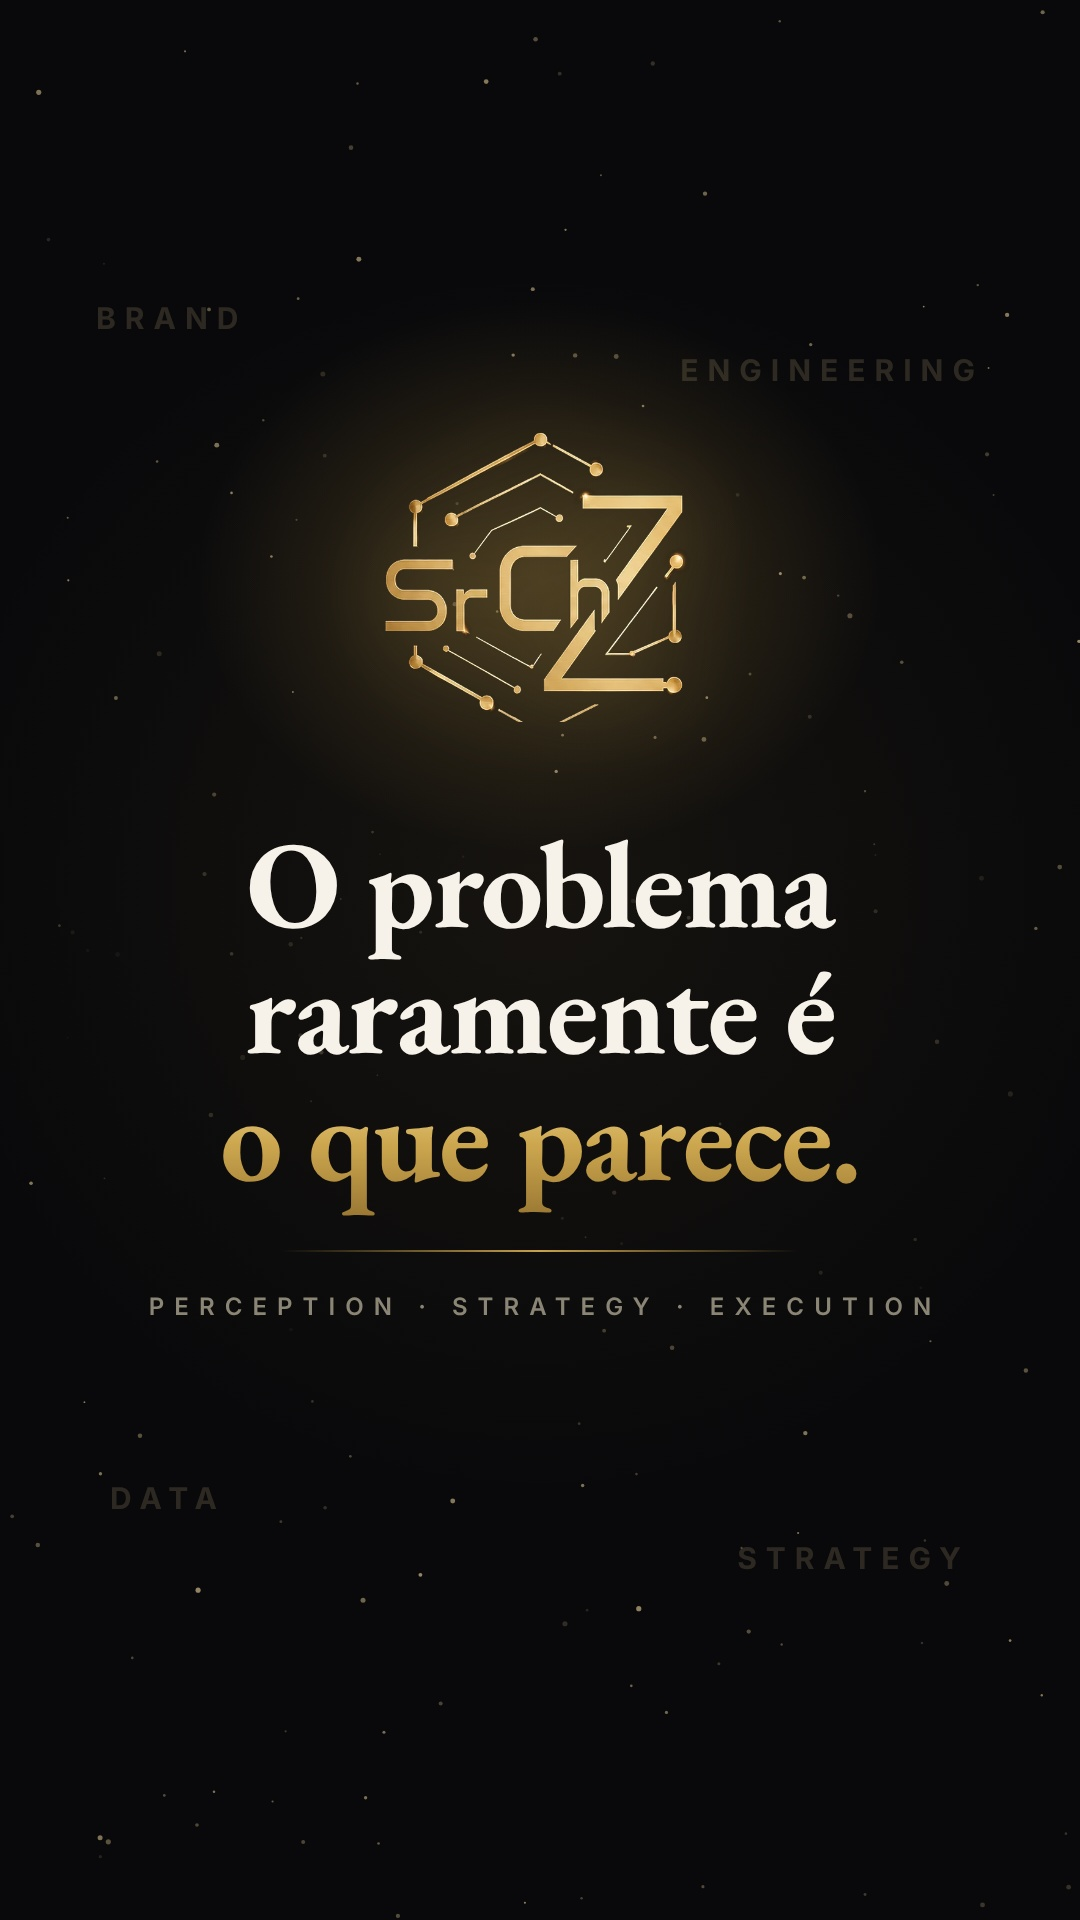
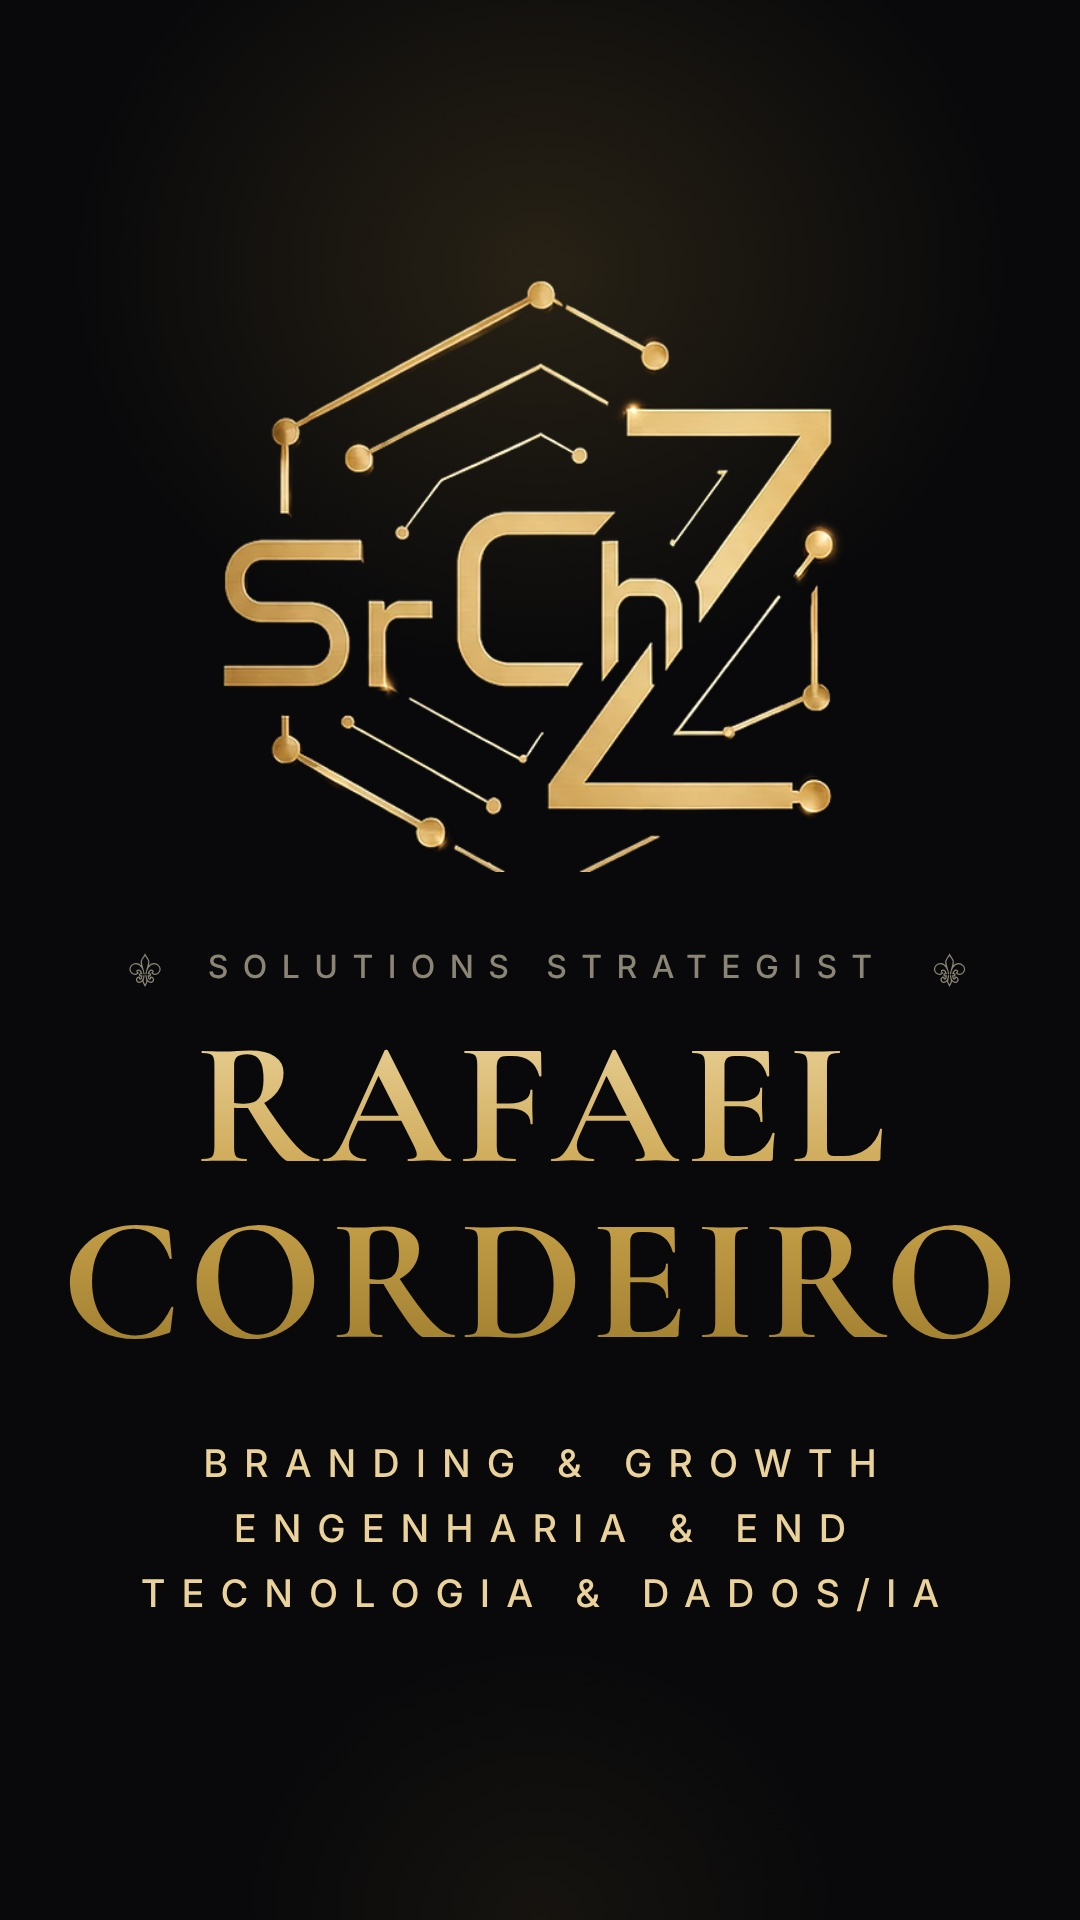
Capa do Reels no desenho do topo do site, sem foco em Growth
Pedido do usuário, com o topo da /growth como referência: o logo, o
rótulo entre flores de lis, o nome em dourado e o cargo em caixa-alta
espaçada. Fontes, cores e espaçamentos saem do CSS da /growth —
Cormorant Garamond no nome, Inter no resto, o mesmo gradiente dourado.
O texto sai da home, que fala das três práticas: "Solutions Strategist"
no rótulo, e no cargo as três práticas, uma por linha. Com o argumento
"solucoes" o cargo vira "Estrategista de Soluções", como na home, o que
repete o rótulo em português.

Duas armadilhas resolvidas:
- a srchz-mark.png tem 720 px, mas o desenho ocupa 496; o resto é margem
  transparente. Dimensionada pela largura do arquivo, a marca saía um
  terço menor. A 900 px de imagem o desenho fica com 620, dois terços do
  nome, que é a proporção do site.
- a Inter não tem o ⚜. A escolha automática aqui seria a DejaVu, que
  desenha a flor cheia; no celular ela sai vazada e fina, como a da
  FreeSerif, que é a que a capa pede.

O bloco fica centrado nos 1440 px do meio, que o grid do perfil recorta
(3:4). A página falha na hora com uma variante que não existe, em vez de
o script esperar o timeout.

Claude-Session: https://claude.ai/code/session_01MSpLeeFCgv86181idZjs4t

diff --git a/tools/video/film-cover.html b/tools/video/film-cover.html
@@ -1,78 +1,84 @@
 <!doctype html>
-<!-- Capa do Reels do filme, renderizada por film-cover.js em 1080x1920.
+<!-- Capa do Reels, renderizada por film-cover.js em 1080x1920.
 
-     O Instagram mostra a capa inteira no feed de Reels, mas no grid do perfil
-     recorta os 1440 px do meio (3:4). Tudo o que precisa ser lido mora nessa
-     faixa, de y=240 a y=1680; fora dela so fundo.
+     O desenho e o do topo das paginas do site: medalhao, rotulo entre flores
+     de lis, o nome em dourado e o cargo em caixa-alta espacada — com as
+     mesmas fontes, cores e espacamentos do CSS da /growth. O texto e o da
+     home, que fala das tres praticas, e nao o da /growth, que fala so de uma.
 
-     O desenho e o do filme: as quatro palavras do caos espalhadas e apagadas
-     nas bordas, e no centro a ordem — a marca e a frase que abre o filme, com
-     o fim em dourado, como "ninguem resolve?" no convite final. -->
+     O Instagram mostra a capa inteira na aba Reels, mas no grid do perfil
+     recorta os 1440 px do meio (3:4). O bloco fica centrado nessa faixa, de
+     y=240 a y=1680; fora dela so o brilho do fundo.
+
+     ?v=praticas  o cargo vira as tres praticas, uma por linha (padrao)
+     ?v=solucoes  o cargo e "Estrategista de Solucoes", como na home -->
 <html lang="pt-BR">
 <head>
 <meta charset="utf-8">
 <style>
-  @font-face{font-family:"EB Garamond";font-weight:700;font-display:block;src:url(/fonts/eb-garamond-latin-700-normal.woff2) format("woff2")}
-  @font-face{font-family:"Inter";font-weight:600;font-display:block;src:url(/fonts/inter-latin-600-normal.woff2) format("woff2")}
-  @font-face{font-family:"Inter";font-weight:700;font-display:block;src:url(/fonts/inter-latin-700-normal.woff2) format("woff2")}
+  @font-face{font-family:"Cormorant Garamond";font-weight:700;font-display:block;
+    src:url(/fonts/cormorant-garamond-latin-700-normal.woff2) format("woff2")}
+  @font-face{font-family:"Inter";font-weight:500;font-display:block;
+    src:url(/fonts/inter-latin-500-normal.woff2) format("woff2")}
   :root{
-    --bg:#09090b; --ink:#f6f2e9; --soft:#cbc4b6; --muted:#8b8576;
-    --gold:#c9a24b; --gold-2:#ead29a;
-    --gold-grad:linear-gradient(180deg,#f6e4ad,#cda74f 55%,#9a7833);
+    --bg:#09090b; --muted:#8b8576; --gold:#c9a24b; --gold-2:#ead29a; --gold-deep:#9c7c2e;
+    --serif:"Cormorant Garamond",Georgia,serif; --sans:"Inter",sans-serif;
   }
   *{margin:0;padding:0;box-sizing:border-box}
   html,body{background:var(--bg)}
   #c{position:relative;width:1080px;height:1920px;overflow:hidden;background:var(--bg);
-     font-family:"Inter",sans-serif;color:var(--ink);-webkit-font-smoothing:antialiased}
+     font-family:var(--sans);-webkit-font-smoothing:antialiased}
+  /* o .hero-glow do site, com o foco de cima puxado para dentro do recorte */
   #glow{position:absolute;inset:0;background:
-    radial-gradient(44% 20% at 50% 30%,rgba(201,162,75,.26),transparent 72%),
-    radial-gradient(82% 46% at 50% 46%,rgba(201,162,75,.07),transparent 70%)}
-  #dust{position:absolute;inset:0}
-  .w{position:absolute;font-weight:700;font-size:30px;letter-spacing:.3em;color:var(--gold-2);opacity:.16}
-  #mark{position:absolute;left:50%;top:420px;width:440px;transform:translateX(-50%);
-        filter:drop-shadow(0 0 44px rgba(201,162,75,.45))}
-  #hook{position:absolute;left:70px;right:70px;top:820px;text-align:center;
-        font-family:"EB Garamond",Georgia,serif;font-weight:700;font-size:124px;
-        line-height:1.02;letter-spacing:-.015em}
-  .g{background:var(--gold-grad);-webkit-background-clip:text;background-clip:text;color:transparent}
-  #rule{position:absolute;left:50%;top:1250px;width:520px;height:2px;transform:translateX(-50%);
-        background:linear-gradient(90deg,transparent,var(--gold),transparent)}
-  /* o espaco depois da ultima letra empurraria a linha para a esquerda; o
-     recuo do mesmo tamanho na frente devolve o centro */
-  #tag{position:absolute;left:0;right:0;top:1292px;text-align:center;font-weight:600;font-size:24px;
-       letter-spacing:.42em;padding-left:.42em;color:var(--muted);text-transform:uppercase}
+    radial-gradient(70% 34% at 50% 14%,rgba(201,162,75,.16),transparent 62%),
+    radial-gradient(46% 24% at 50% 100%,rgba(201,162,75,.07),transparent 60%)}
+  #safe{position:absolute;left:0;right:0;top:240px;height:1440px;
+        display:flex;flex-direction:column;align-items:center;justify-content:center;
+        padding-bottom:40px;text-align:center}
+  /* a srchz-mark.png tem 720 px, mas o desenho ocupa 496: o resto e margem
+     transparente. A 900 px de imagem o desenho fica com 620, dois tercos
+     da largura do nome — a proporcao da /growth */
+  #mark{width:900px;height:auto;display:block}
+  /* .hero-kicker */
+  #kick{margin-top:74px;font-size:32px;font-weight:500;letter-spacing:.45em;padding-left:.45em;
+        text-transform:uppercase;color:var(--muted);white-space:nowrap}
+  /* a Inter nao tem a flor de lis; no celular ela vem de uma fonte do
+     sistema e sai vazada e fina. A da FreeSerif e assim; a da DejaVu, que
+     seria a escolha automatica aqui, e cheia */
+  .fl{font-family:"FreeSerif",serif;font-weight:400;letter-spacing:0;font-size:1.3em;vertical-align:-.08em}
+  /* .hero-name + .gold-text: um gradiente so para as duas linhas, como no
+     site — por isso o CORDEIRO sai mais fundo que o RAFAEL */
+  #name{margin-top:26px;font-family:var(--serif);font-weight:700;font-size:176px;line-height:1;
+        letter-spacing:.04em;padding-left:.04em;
+        background:linear-gradient(180deg,var(--gold-2) 0%,var(--gold) 52%,var(--gold-deep) 100%);
+        -webkit-background-clip:text;background-clip:text;color:transparent}
+  /* .hero-title */
+  #role{margin-top:62px;font-size:38px;font-weight:500;line-height:1.7;letter-spacing:.42em;
+        padding-left:.42em;text-transform:uppercase;color:var(--gold-2)}
+  /* com duas linhas cabe maior; com tres, TECNOLOGIA & DADOS/IA limita */
+  #role.v-solucoes{font-size:46px}
 </style>
 </head>
 <body>
 <div id="c">
   <div id="glow"></div>
-  <canvas id="dust" width="1080" height="1920"></canvas>
-  <div class="w" style="left:96px;top:300px">Brand</div>
-  <div class="w" style="right:96px;top:352px">Engineering</div>
-  <div class="w" style="left:110px;top:1480px">Data</div>
-  <div class="w" style="right:110px;top:1540px">Strategy</div>
-  <img id="mark" src="/brand/srchz-mark.png" alt="">
-  <div id="hook">O problema<br>raramente é<br><span class="g">o que parece.</span></div>
-  <div id="rule"></div>
-  <div id="tag">Perception · Strategy · Execution</div>
+  <div id="safe">
+    <img id="mark" src="/brand/srchz-mark.png" alt="SrChZ Technologies">
+    <p id="kick"><span class="fl">⚜</span>&nbsp;&nbsp;Solutions Strategist&nbsp;&nbsp;<span class="fl">⚜</span></p>
+    <h1 id="name">RAFAEL<br>CORDEIRO</h1>
+    <p id="role"></p>
+  </div>
 </div>
 <script>
-  for (const el of document.querySelectorAll('.w')) el.textContent = el.textContent.toUpperCase();
-
-  /* poeira dourada como a do filme, com semente fixa: a mesma capa em toda
-     execucao. Perto do texto ela fica mais fraca, para nao sujar a leitura. */
-  let s = 20261022;
-  const rnd = () => { s = (s * 1103515245 + 12345) & 0x7fffffff; return s / 0x7fffffff; };
-  const x = document.getElementById('dust').getContext('2d');
-  for (let i = 0; i < 170; i++) {
-    const px = rnd() * 1080, py = rnd() * 1920;
-    const nearText = py > 800 && py < 1330 && px > 60 && px < 1020;
-    const a = (0.12 + rnd() * 0.5) * (nearText ? 0.35 : 1);
-    x.beginPath();
-    x.fillStyle = `rgba(234,210,154,${a.toFixed(3)})`;
-    x.arc(px, py, 0.9 + rnd() * 1.7, 0, Math.PI * 2);
-    x.fill();
-  }
+  const v = new URLSearchParams(location.search).get('v') || 'praticas';
+  const ROLE = {
+    praticas: ['Branding &amp; Growth', 'Engenharia &amp; END', 'Tecnologia &amp; Dados/IA'],
+    solucoes: ['Estrategista', 'de Soluções'],
+  };
+  if (!ROLE[v]) throw new Error('variante desconhecida: ' + v);
+  const role = document.getElementById('role');
+  role.innerHTML = ROLE[v].join('<br>');
+  role.className = 'v-' + v;
   window.drawn = true;
 </script>
 </body>

diff --git a/tools/video/film-cover.js b/tools/video/film-cover.js
@@ -1,8 +1,9 @@
 /* Capa do Reels do filme: renderiza film-cover.html em 1080x1920 e grava o
    jpg ao lado dos masters.
 
-   VIDEO_FONTS=... node film-cover.js
-   (as fontes sao as mesmas do render; o README diz como montar a pasta)
+   VIDEO_FONTS=... node film-cover.js [praticas|solucoes]
+   (a pasta de fontes e a do render, mais a Cormorant Garamond 700, que e a
+   do nome no site; o README diz como montar)
 */
 const { chromium } = require('playwright');
 const http = require('http');
@@ -14,6 +15,7 @@ const SITE = process.env.SITE_ROOT || path.join(DIR, '..', '..');
 const FONTS = process.env.VIDEO_FONTS;
 const OUT = process.env.VIDEO_OUT || path.join(SITE, 'assets', 'video');
 const PORT = 8939;
+const VARIANT = process.argv[2] || 'praticas';
 
 if (!FONTS || !fs.existsSync(FONTS)) {
   console.error('ERRO: defina VIDEO_FONTS apontando para os .woff2.');
@@ -38,14 +40,17 @@ const server = http.createServer((q, r) => {
     executablePath: '/opt/pw-browsers/chromium-1194/chrome-linux/chrome'
   });
   const page = await browser.newPage({ viewport: { width: 1080, height: 1920 }, deviceScaleFactor: 1 });
-  await page.goto(`http://localhost:${PORT}/`, { waitUntil: 'load' });
+  // erro na pagina (variante que nao existe, por exemplo) falha na hora, e
+  // nao depois de esperar o window.drawn ate o timeout
+  page.on('pageerror', (e) => { console.error('ERRO na pagina: ' + e.message); process.exit(1); });
+  await page.goto(`http://localhost:${PORT}/?v=${encodeURIComponent(VARIANT)}`, { waitUntil: 'load' });
   await page.waitForFunction(() => window.drawn === true);
 
   /* document.fonts.check() devolve true quando nenhuma fonte casa com a
      descricao, entao nao serve de prova. load() devolve as faces que de fato
-     carregaram: lista vazia e titulo saindo em Georgia. */
+     carregaram: lista vazia e nome saindo em Georgia. */
   const missing = await page.evaluate(async () => {
-    const want = ['700 124px "EB Garamond"', '600 24px "Inter"', '700 30px "Inter"'];
+    const want = ['700 172px "Cormorant Garamond"', '500 34px "Inter"'];
     const out = [];
     for (const w of want) if (!(await document.fonts.load(w)).length) out.push(w);
     const img = document.getElementById('mark');

diff --git a/tools/video/README-film.md b/tools/video/README-film.md
@@ -37,8 +37,8 @@ novo — não é retrabalho de vídeo.
 ```bash
 # 1. fontes (não moram no repo)
 mkdir -p /tmp/video/fonts && cd /tmp/video/fonts
-npm pack @fontsource/eb-garamond @fontsource/inter
-tar xzf fontsource-eb-garamond-*.tgz && tar xzf fontsource-inter-*.tgz
+npm pack @fontsource/eb-garamond @fontsource/inter @fontsource/cormorant-garamond
+for t in fontsource-*.tgz; do tar xzf $t; done   # a Cormorant e so da capa do Reels
 
 cd <repo>
 export VIDEO_WORK=/tmp/video
@@ -62,7 +62,7 @@ node tools/video/film-subs.js
 # 7. o corte de 30 s, tirado dos masters (ver "Corte de 30 s")
 python3 tools/video/film-cut.py
 
-# 8. a capa do Reels (ver "Capa do Reels")
+# 8. a capa do Reels (ver "Capa do Reels"); "solucoes" para a outra versao
 node tools/video/film-cover.js
 ```
 
@@ -180,20 +180,35 @@ Conferido: cada trecho bate com o quadro exato da origem — SSIM 0,999 contra
 `film-cover.js` renderiza `film-cover.html` em 1080×1920 e grava
 `srchz-order-of-chaos-reels-capa.jpg`. Serve para o de 60 s e para o de 30 s.
 
-O Instagram mostra a capa inteira na aba Reels, mas no grid do perfil recorta
-os 1440 px do meio (3:4). Tudo o que precisa ser lido fica nessa faixa, de
-y=240 a y=1680. Fora dela, só fundo.
+**O desenho é o do topo das páginas do site**: o logo, o rótulo entre flores de
+lis, o nome em dourado e o cargo em caixa-alta espaçada. As fontes, as cores e
+os espaçamentos vêm do CSS da /growth — Cormorant Garamond no nome, Inter no
+resto, o mesmo gradiente dourado —, e o texto vem da home, que fala das três
+práticas, e não da /growth, que fala só de uma.
 
-O desenho é o do filme: as quatro palavras do caos espalhadas e apagadas nas
-bordas e, no centro, a ordem — a marca e a frase que abre o filme, com o fim
-em dourado, como o "ninguém resolve?" do convite final. As cores, as fontes e
-o logo são os mesmos do filme. A frase tem 124 px para continuar legível na
-miniatura do grid, que num celular fica com cerca de um terço da largura da
-tela.
+- `node film-cover.js` — o cargo vira as três práticas, uma por linha
+- `node film-cover.js solucoes` — o cargo é "Estrategista de Soluções", como
+  na home. Repete o rótulo ("Solutions Strategist") em português.
+
+Duas armadilhas que a capa já resolve:
+
+- **A margem do logo.** A `srchz-mark.png` tem 720 px de largura, mas o desenho
+  ocupa 496; o resto é transparente. Dimensionada pela largura do arquivo, a
+  marca sai um terço menor do que parece. A capa usa 900 px de imagem para o
+  desenho ficar com 620, dois terços da largura do nome, que é a proporção do
+  site.
+- **A flor de lis.** A Inter não tem o ⚜. No celular ele vem de uma fonte do
+  sistema e sai vazado e fino. Aqui a escolha automática seria a DejaVu, que
+  desenha a flor cheia; a capa pede a FreeSerif, que desenha vazada.
+
+O Instagram mostra a capa inteira na aba Reels, mas no grid do perfil recorta
+os 1440 px do meio (3:4). O bloco fica centrado nessa faixa, de y=240 a
+y=1680, e fora dela fica só o brilho do fundo. Conferido simulando o recorte em
+tamanho de miniatura de celular.
 
 O script recusa gerar a capa se uma fonte ou o logo não carregar, em vez de
-deixar o título sair em Georgia. A poeira tem semente fixa, então duas
-execuções dão o mesmo arquivo.
+deixar o nome sair em Georgia, e falha na hora com uma variante que não
+existe. Duas execuções dão o mesmo arquivo.
 
 ## Legenda queimada
 
